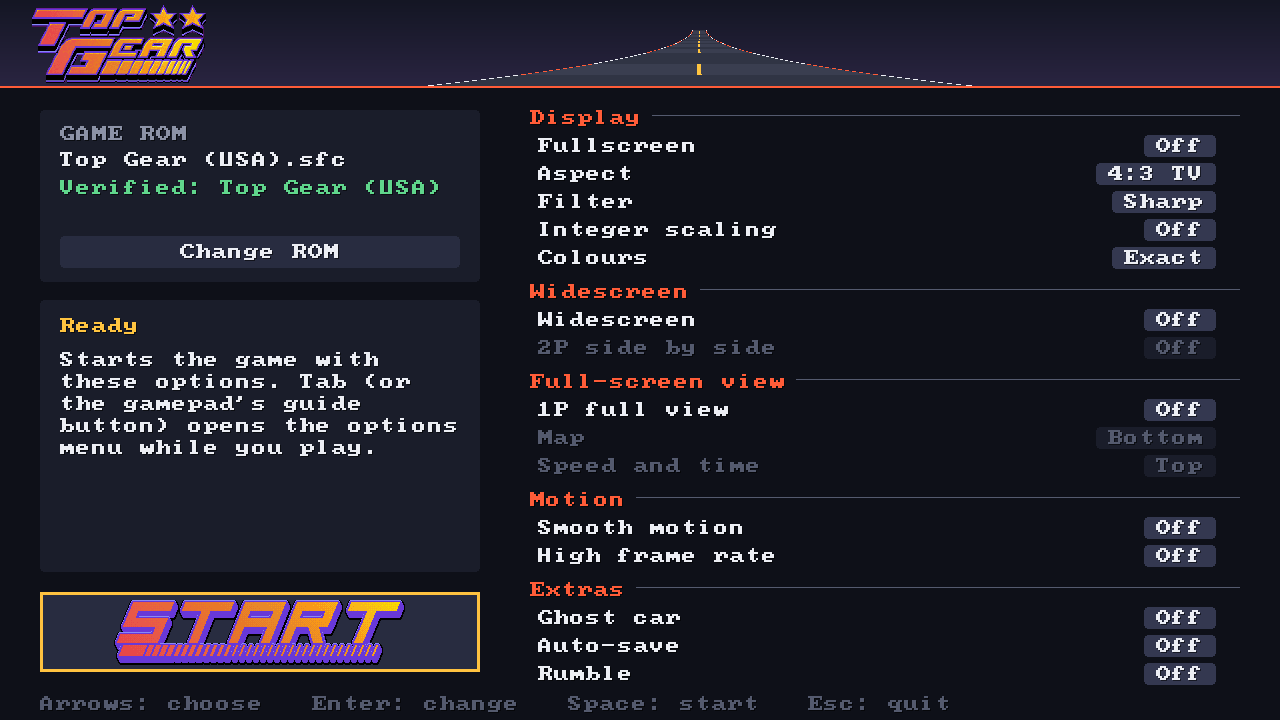
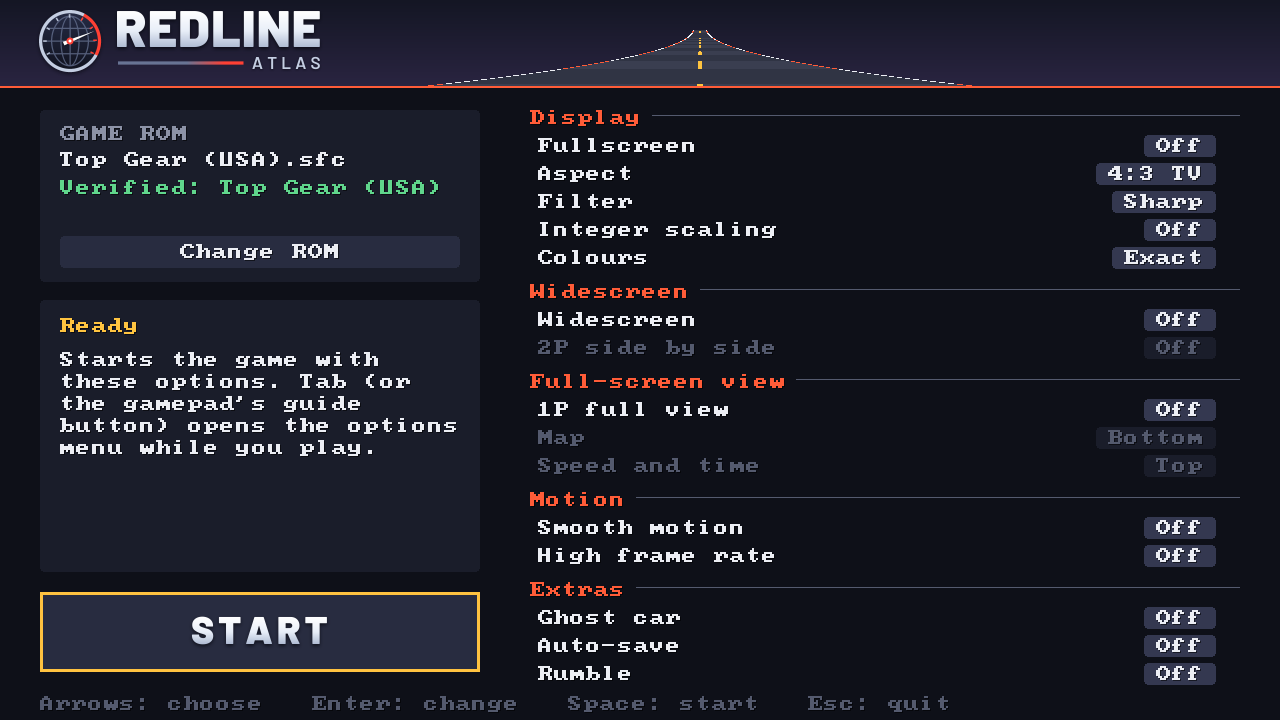
Remove screenshots of the game's graphics; launcher screenshot without game art
docs/screenshots/grid-widescreen.png, road-widescreen.png and window.png
show the game's own graphics (cars, track, HUD), and the old launcher.png
showed the game's title logo. Like the ROM they come from, they should not
be in the repository.

docs/screenshots/launcher.png is replaced by the launcher with the new logo,
rendered with SDL's offscreen driver (SDL_VIDEO_DRIVER=offscreen
TG_LAUNCHER_SHOT=...); it contains nothing from the ROM. The README and the
release notes show it instead, and the README says why there are no
in-game pictures.

Claude-Session: https://claude.ai/code/session_01CxgWiSFawSBgNRJqVEcC8Q

Changed region(s): [[0.0625, 0.825, 0.3125, 0.9472], [0.0, 0.0, 0.25, 0.1222]]

diff --git a/README.md b/README.md
@@ -9,7 +9,8 @@
 </p>
 <p align="center"><a href="https://github.com/thebradshaw/topgear-pc/releases/latest"><img alt="Latest release of Redline Atlas" src="https://img.shields.io/github/v/release/thebradshaw/topgear-pc?label=latest%20release&style=flat-square"></a></p>
 
-<p align="center"><img alt="Widescreen with the full-screen 1-player view, on the starting grid" src="docs/screenshots/grid-widescreen.png" width="820"></p>
+<!-- docs/screenshots/launcher.png: SDL_VIDEO_DRIVER=offscreen TG_LAUNCHER_SHOT=launcher.bmp redline-atlas-launcher -->
+<p align="center"><img alt="The launcher: pick your ROM and the options, then Start" src="docs/screenshots/launcher.png" width="820"></p>
 
 **To play:** download, unzip, run `redline-atlas-launcher`, choose your Top Gear (USA) ROM, set the options and press Start.
 
@@ -22,12 +23,7 @@ A fan project, not affiliated with or endorsed by Kemco, Gremlin Graphics or Nin
 
 The downloads above are always the latest release; older ones are on the [releases page](../../releases). The Linux build is new and untested on real machines, so it may not be stable.
 
-| | |
-|---|---|
-| ![The game in a window on Windows, widescreen and full view on](docs/screenshots/window.png) | ![The launcher: pick your ROM and the options, then Start](docs/screenshots/launcher.png) |
-| Widescreen and full view, in a window | The launcher |
-
-![Widescreen on the open road](docs/screenshots/road-widescreen.png)
+The repository has no screenshots of the game itself: everything the game shows comes from its ROM, so pictures of it stay out of the repository like the ROM does. The launcher above is the project's own.
 
 ## Status
 

diff --git a/.github/release-notes.md b/.github/release-notes.md
@@ -1,6 +1,6 @@
 Made by **Vibe Slop Studios**. Redline Atlas TAG.
 
-![Widescreen with the full-screen 1-player view](https://raw.githubusercontent.com/thebradshaw/topgear-pc/main/docs/screenshots/grid-widescreen.png)
+![The launcher](https://raw.githubusercontent.com/thebradshaw/topgear-pc/main/docs/screenshots/launcher.png)
 
 **You need your own Top Gear (USA) SNES ROM.** The ROM isn't included: the game's graphics, sound and music come from your own copy. Unzip, run `redline-atlas-launcher`, choose your ROM, set the options and press Start.
 
